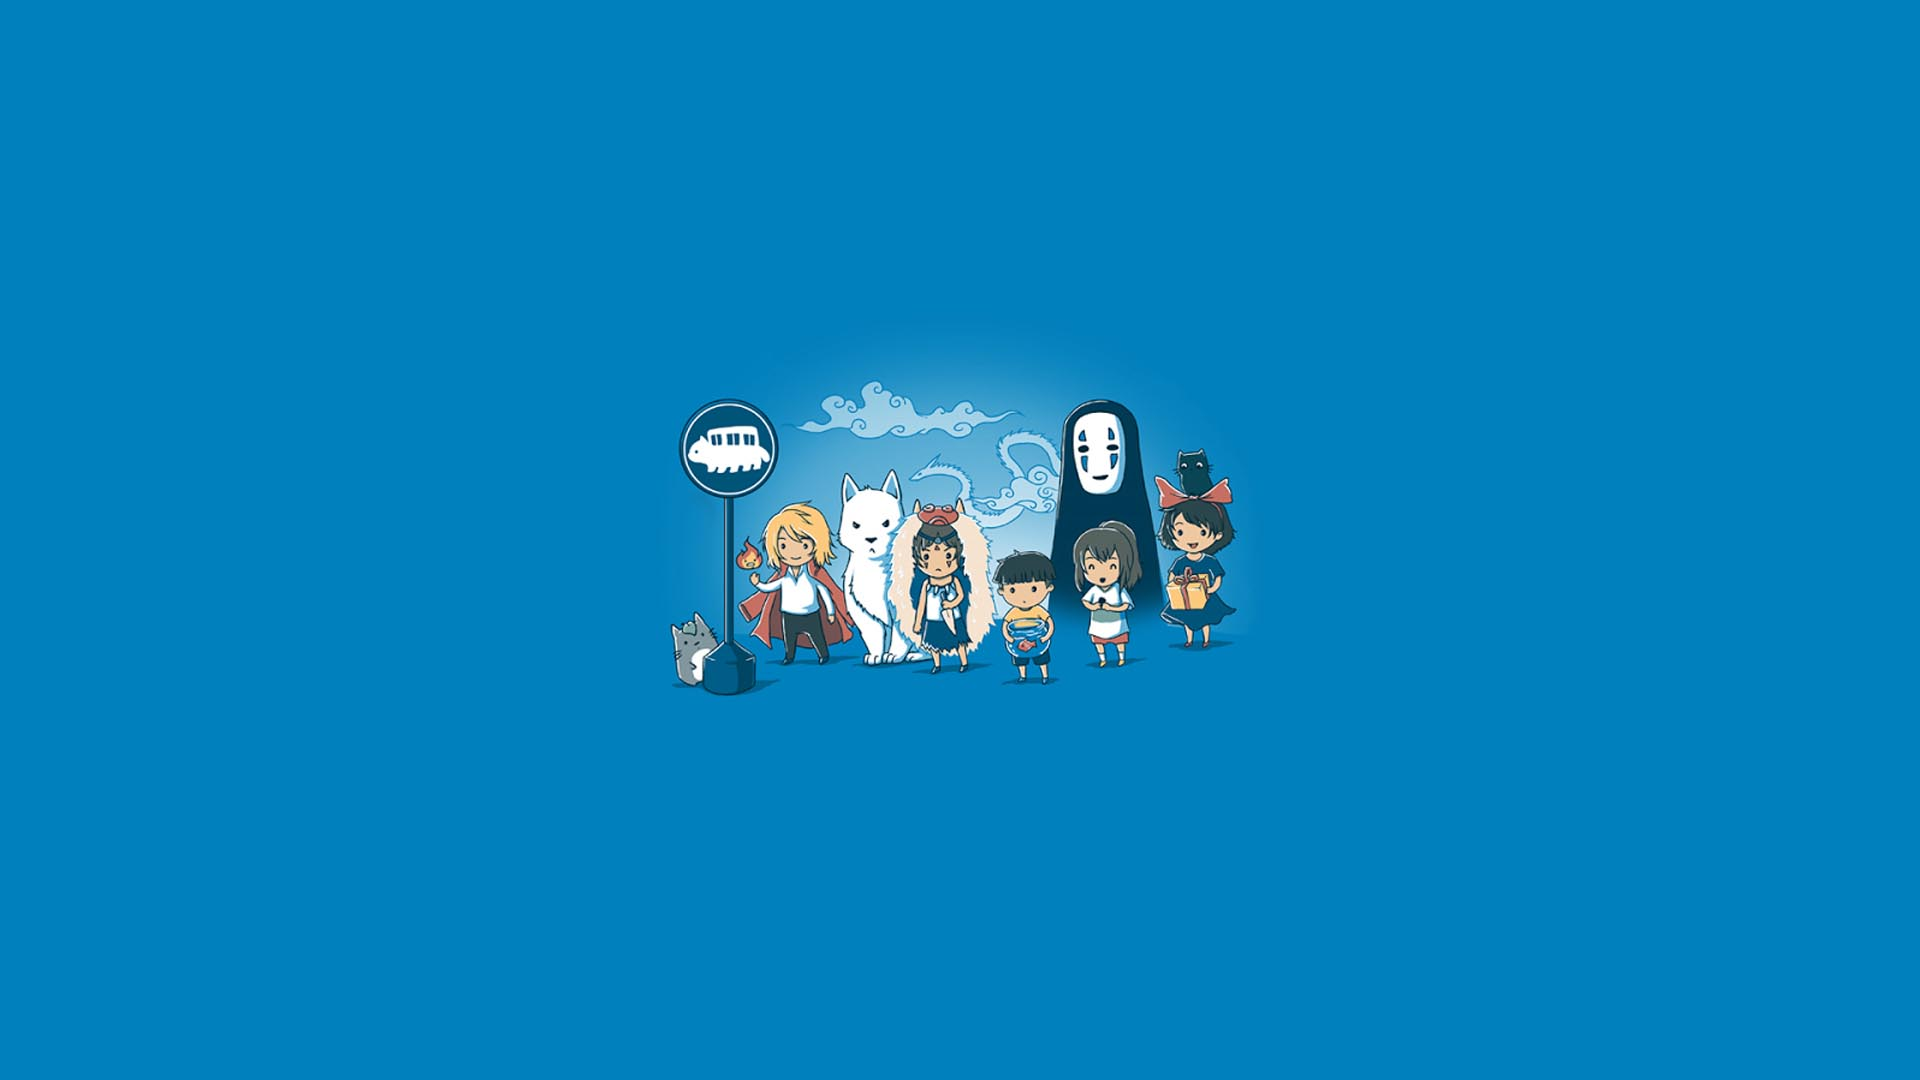
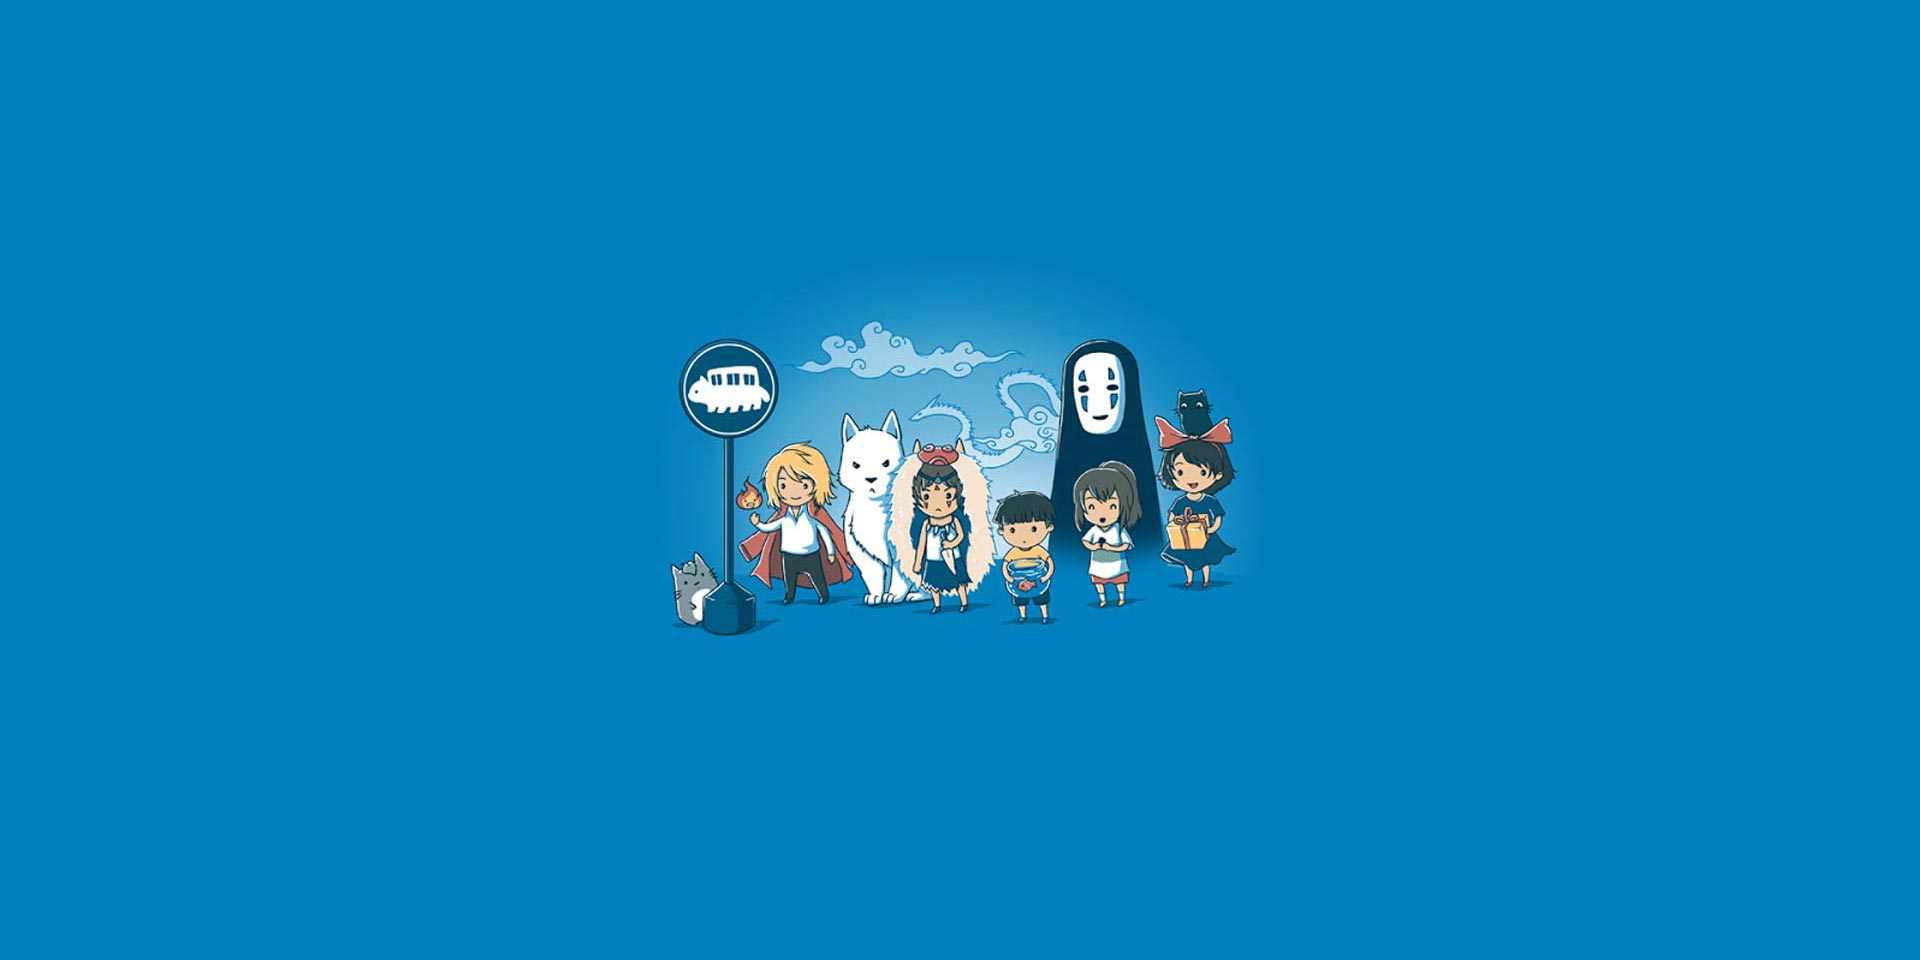
updated components and layout

Changed region(s): [[0.3438, 0.3438, 0.6562, 0.6562]]

diff --git a/src/components/jumbotron.js b/src/components/jumbotron.js
@@ -6,12 +6,12 @@ import locations from '../static/logo/locations.svg';
 
 const Jumbotron = () => {
     return (
-        <div className="container-fluid no-gutters mx-0 px-0 bg-white">
-            <div class="jumbotron jumbotron-fluid card rounded-0 bg-dark">
+        <div className="container-fluid no-gutters m-0 p-0">
+            <div class="jumbotron jumbotron-fluid card rounded-0 py-0 bg-dark">
                 <img src="/static/all_people.jpg" alt="" className="card-img rounded-0 d-none d-md-block" />
                 <img src="/static/all_people_m.jpg" alt="" className="card-img rounded-0 d-block d-md-none" />
-                <div className="card-img-overlay overlay-override my-5 rounded-0 d-flex flex-column justify-content-between justify-content-md-around">
-                    <div className="row text-white my-5">
+                <div className="card-img-overlay overlay-override rounded-0 d-flex flex-column justify-content-between justify-content-md-around">
+                    <div className="row text-white">
                         <div className="col-12">
                             <h1 class="display-4 d-sm-none">Studio Ghibli Visual Guide</h1>
                             <h1 class="display-3 d-none d-sm-flex d-md-none">Studio Ghibli Visual Guide</h1>
@@ -20,11 +20,11 @@ const Jumbotron = () => {
                         </div>
 
                     </div>
-                    <div className="row my-auto my-sm-5">
+                    <div className="row my-auto my-sm-5 mt-lg-n5">
                         <div className="col-8 col-md-5 col-lg-4">
-                        <Link class="btn btn-light btn-lg d-flex flex-row align-items-center justify-content-around" to="/films"><h2>Movies</h2><img src={films} className="w-25" /></Link>
-                        <Link class="btn btn-light btn-lg d-flex flex-row align-items-center justify-content-around my-2" to="/people" role="button"><h2>People</h2><img src={people} className="w-25" /></Link>
-                        <Link class="btn btn-light btn-lg d-flex flex-row align-items-center justify-content-around" to="/locations" role="button"><h2>Locations</h2><img src={locations} className="w-25" /></Link>
+                        <Link class="btn btn-light btn-sm d-flex flex-row align-items-center justify-content-around" to="/films"><h2>Movies</h2><img src={films} className="w-25 menu-icon" /></Link>
+                        <Link class="btn btn-light btn-sm d-flex flex-row align-items-center justify-content-around my-2" to="/people" role="button"><h2>People</h2><img src={people} className="w-25 menu-icon" /></Link>
+                        <Link class="btn btn-light btn-sm d-flex flex-row align-items-center justify-content-around" to="/locations" role="button"><h2>Locations</h2><img src={locations} className="w-25 menu-icon" /></Link>
                     </div>
                     </div>
                 </div>

diff --git a/src/index.css b/src/index.css
@@ -47,6 +47,7 @@ html {
 
 .logoWhole {
   width: 25vmin;
+  max-height: 10vh;
 }
 
 .navbar-light .navbar-toggler {
@@ -79,4 +80,8 @@ html {
 
 .overlay-override {
   background-color: rgba(255, 255, 255, 0) !important;
+}
+
+.menu-icon {
+  max-height: 10vh;
 }
